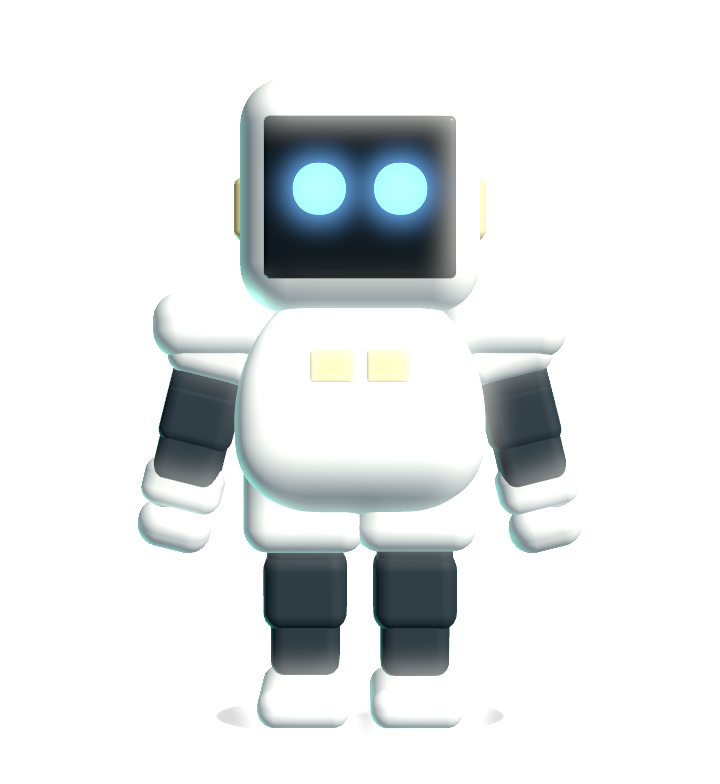
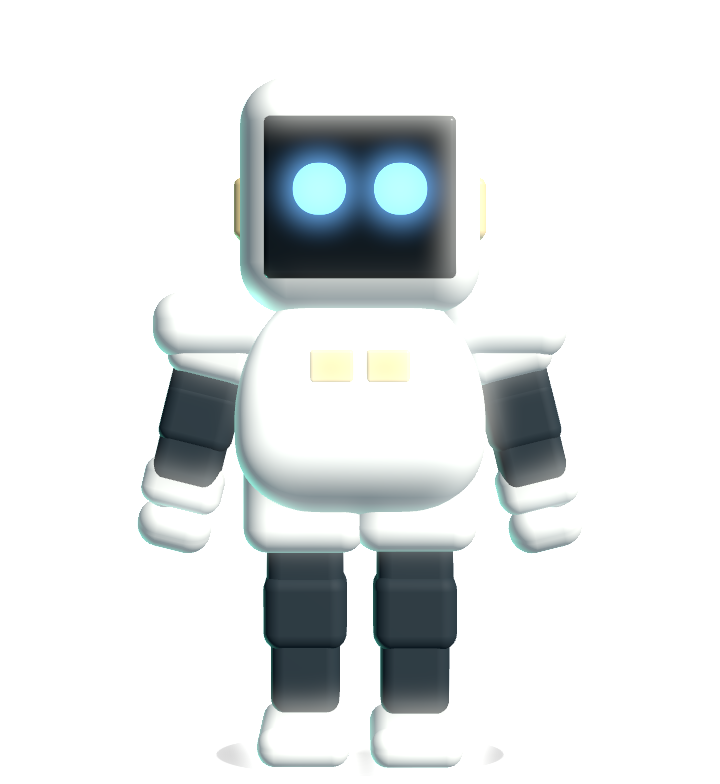
Longer legs
0.38 to 0.46. The shadow followed on its own, which is what deriving it from
the leg chain was for.

diff --git a/app/Sources/Squawk/Companion3D/CompanionScene.swift b/app/Sources/Squawk/Companion3D/CompanionScene.swift
@@ -54,7 +54,7 @@ final class CompanionScene {
         static let neck = CGFloat(0.30)
         static let armLength = CGFloat(0.32)
         static let armThickness = CGFloat(0.170)
-        static let legLength = CGFloat(0.38)
+        static let legLength = CGFloat(0.46)
         static let legThickness = CGFloat(0.180)
         static let hipSpread = CGFloat(0.22)
 
